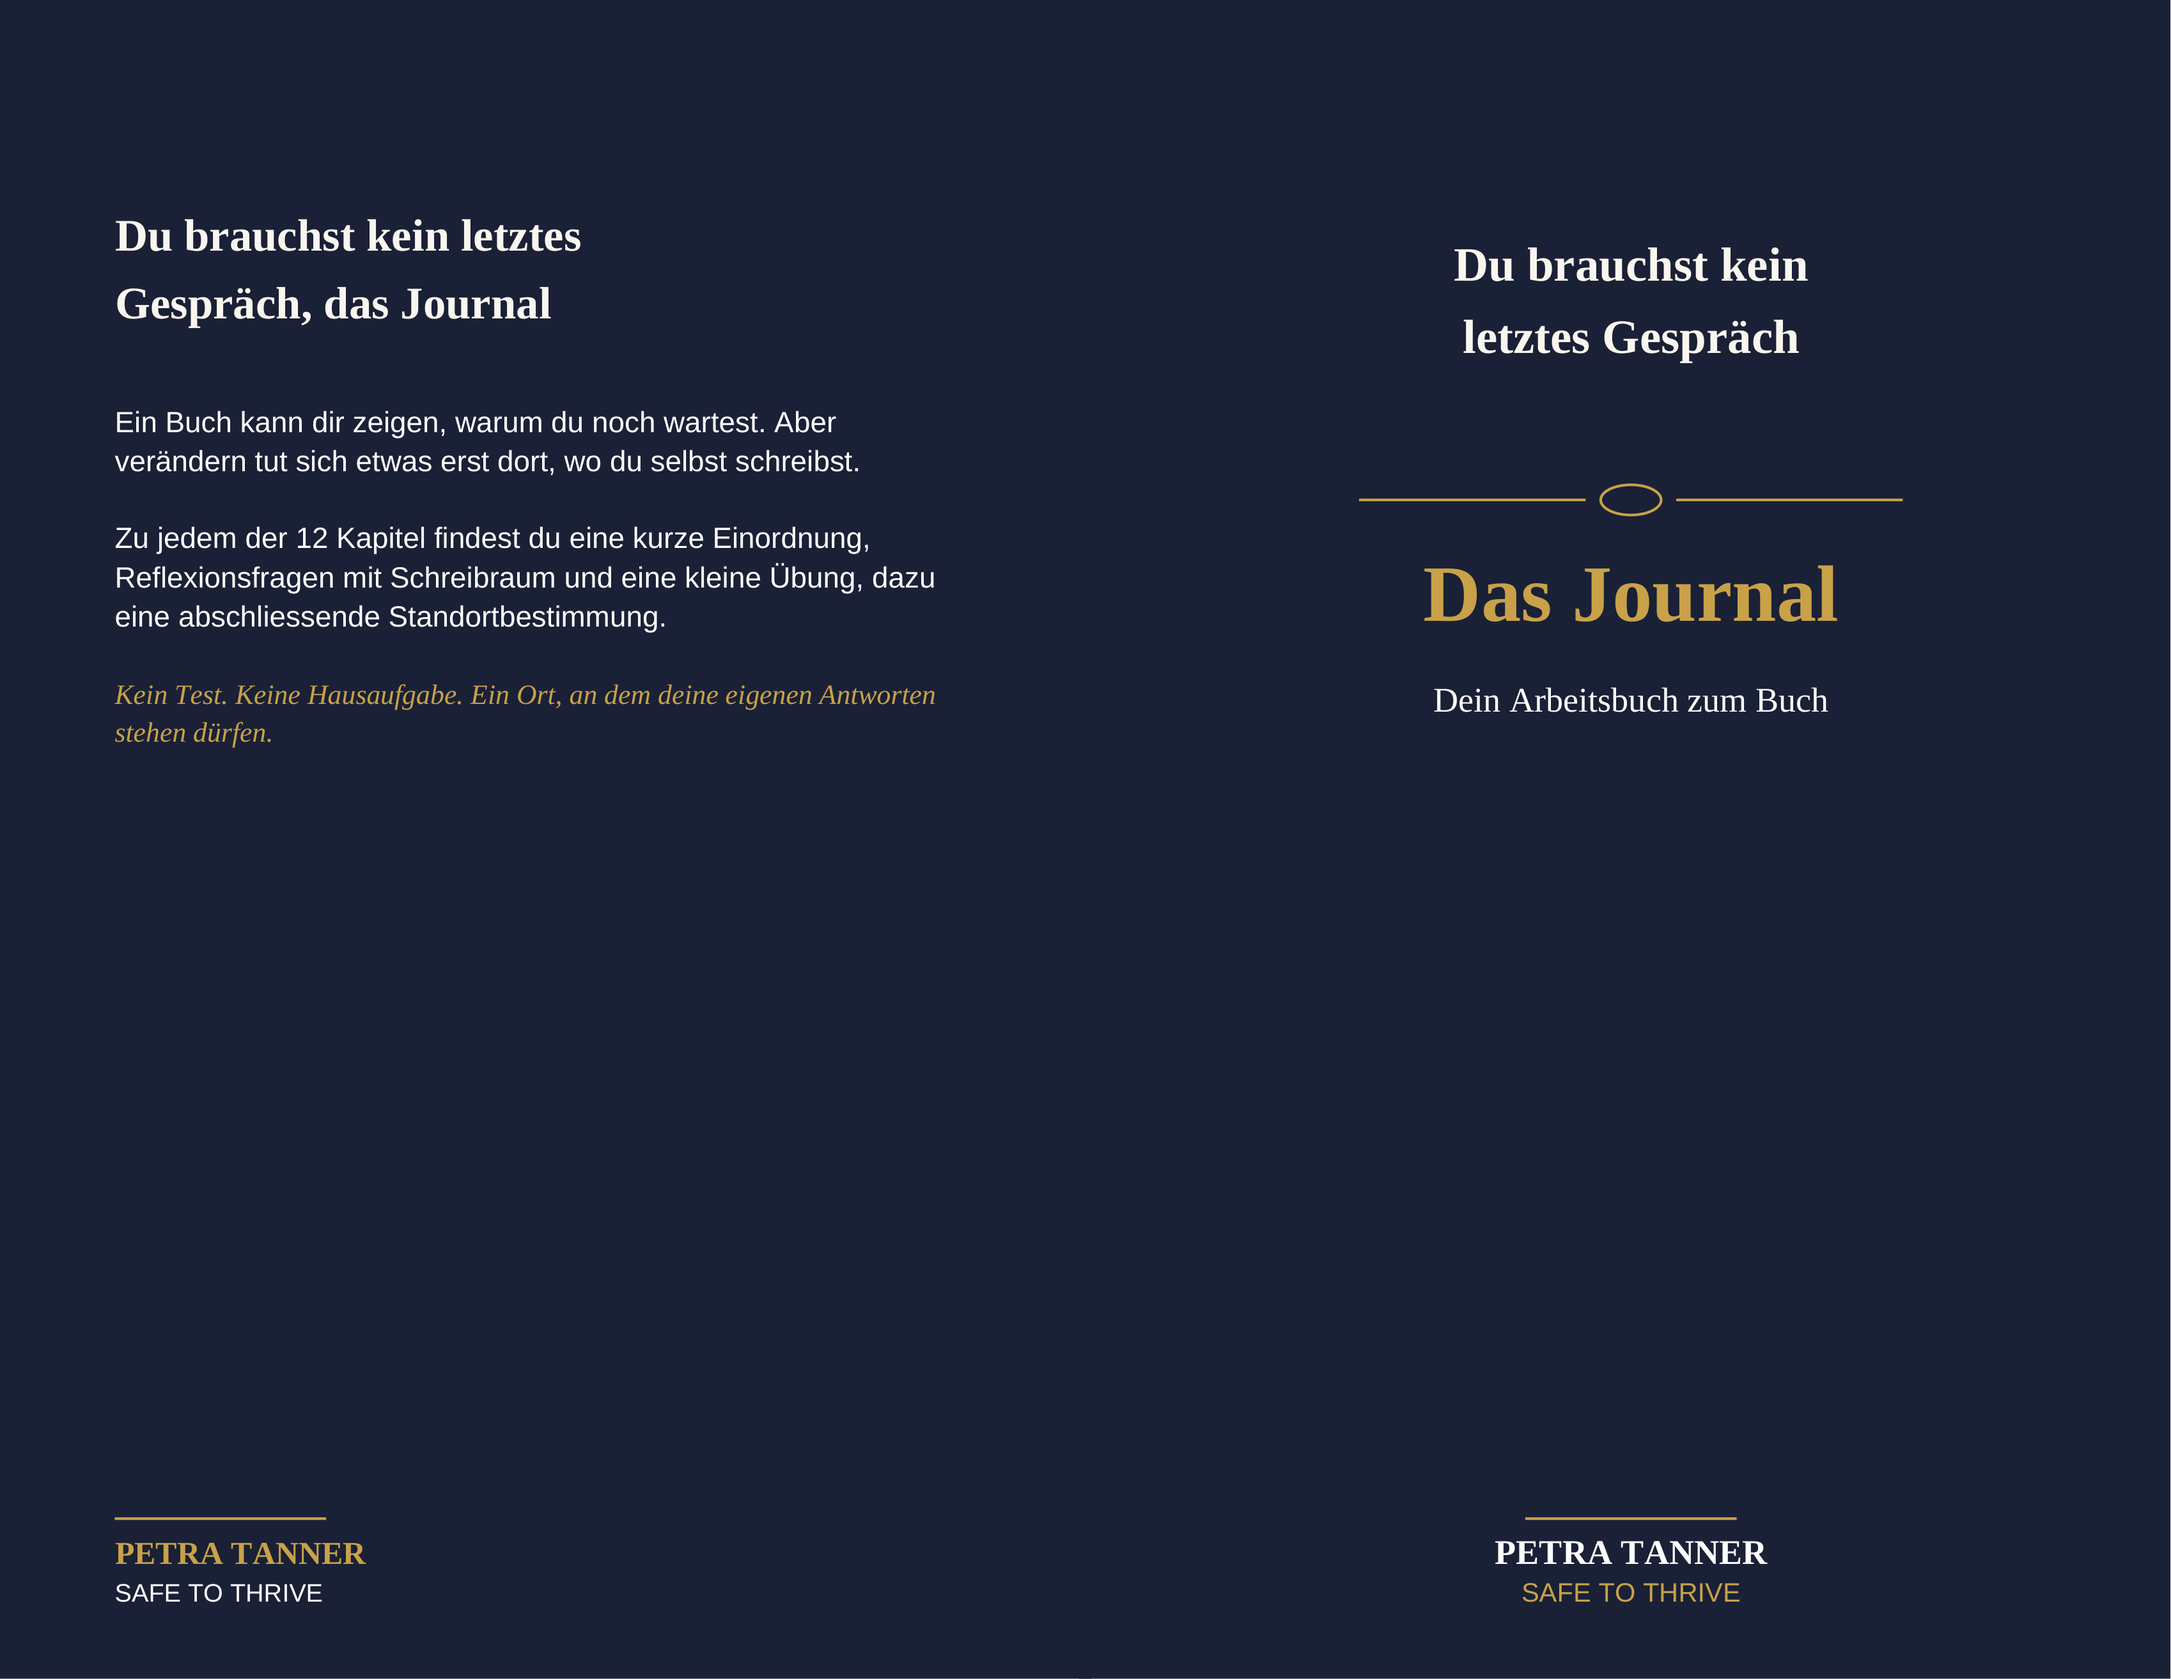
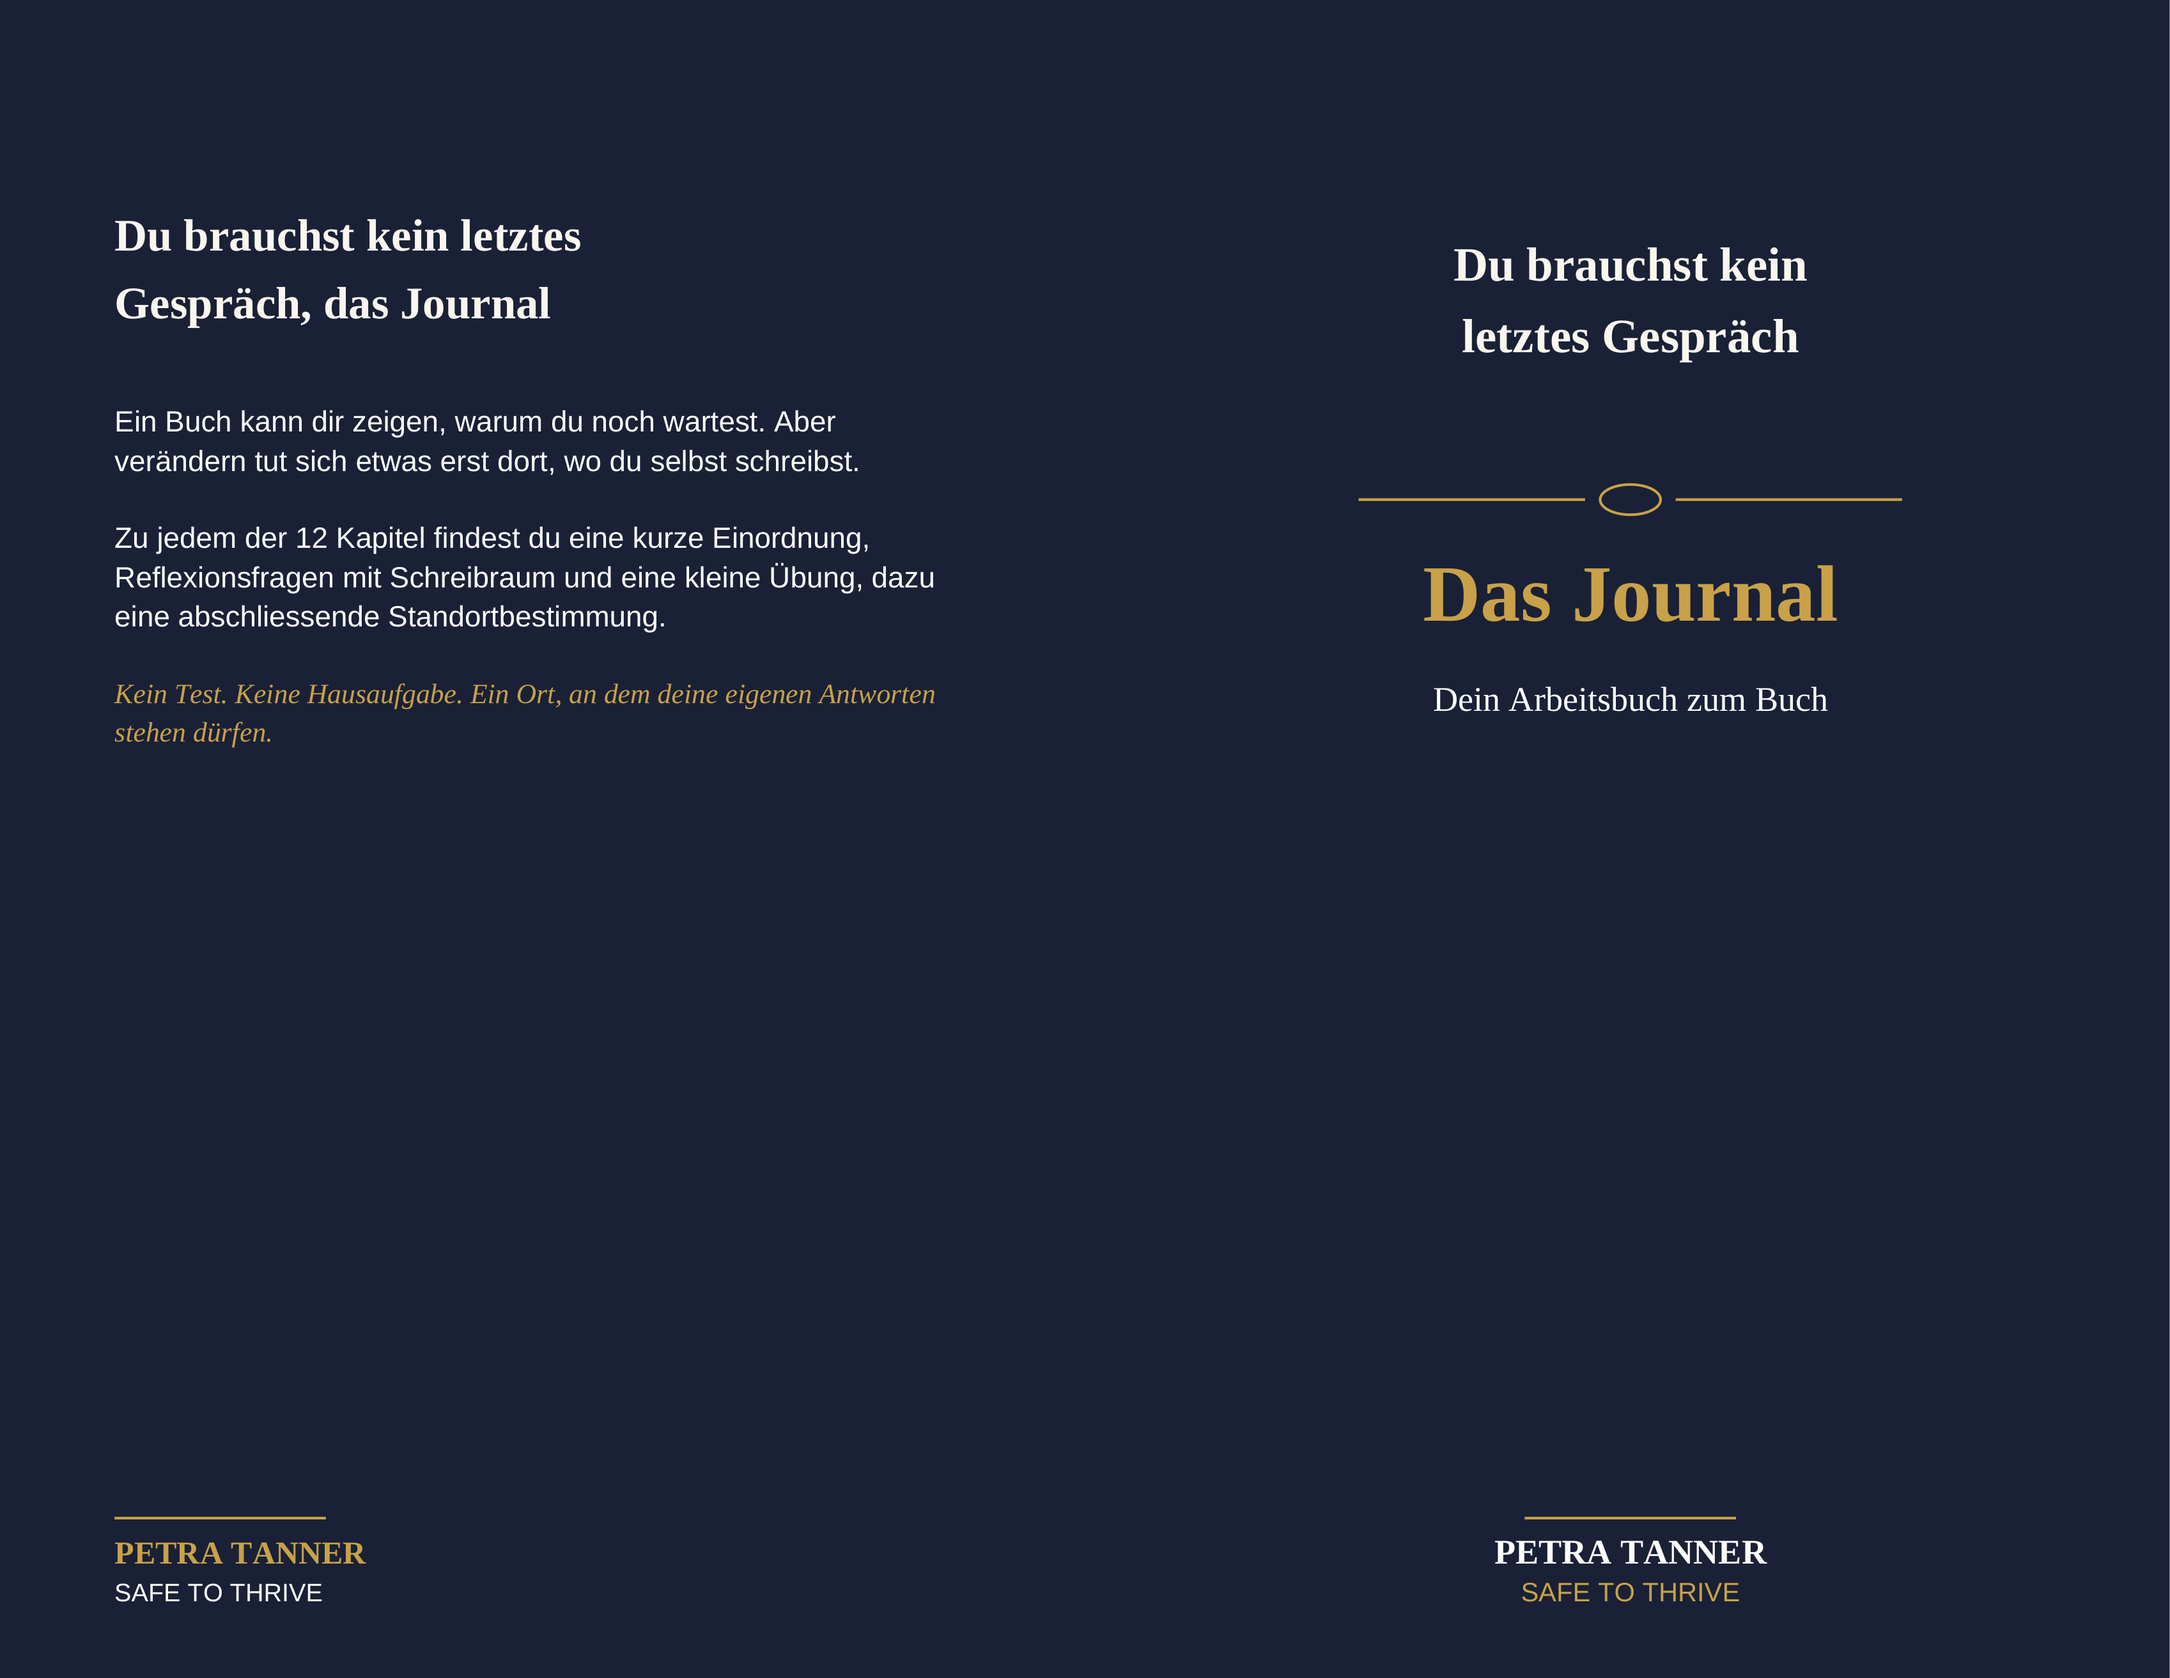
Journal-Cover: Beschnitt exakt auf KDPs 0,125-Zoll-Wert korrigiert
BLEED war 3.2mm gerundet statt exakt 3.175mm (0,125 Zoll), dadurch
0,05mm zu gross in Breite und Höhe. Datei ist laut qpdf und
Ghostschript strukturell einwandfrei, Fonts eingebettet - falls der
KDP-Fehler weiter auftritt, liegt es vermutlich nicht mehr am Cover
selbst, siehe Nachricht an Petra.

Claude-Session: https://claude.ai/code/session_011oFtWvyjvkDdc6K2GcSXHx

diff --git a/tools/buch-letztes-gespraech-journal-cover.py b/tools/buch-letztes-gespraech-journal-cover.py
@@ -28,7 +28,7 @@ rl_config.canvas_basefontname = 'Serif'
 
 PAGES = 26
 SPINE_MM = PAGES * 0.0025 * 25.4
-BLEED = 3.2
+BLEED = 3.175  # exakt 0,125 Zoll, KDPs eigener Wert, nicht 3.2mm gerundet
 TRIM_W, TRIM_H = 139.7, 215.9
 PANEL_W = BLEED + TRIM_W
 TOTAL_W = PANEL_W * 2 + SPINE_MM
